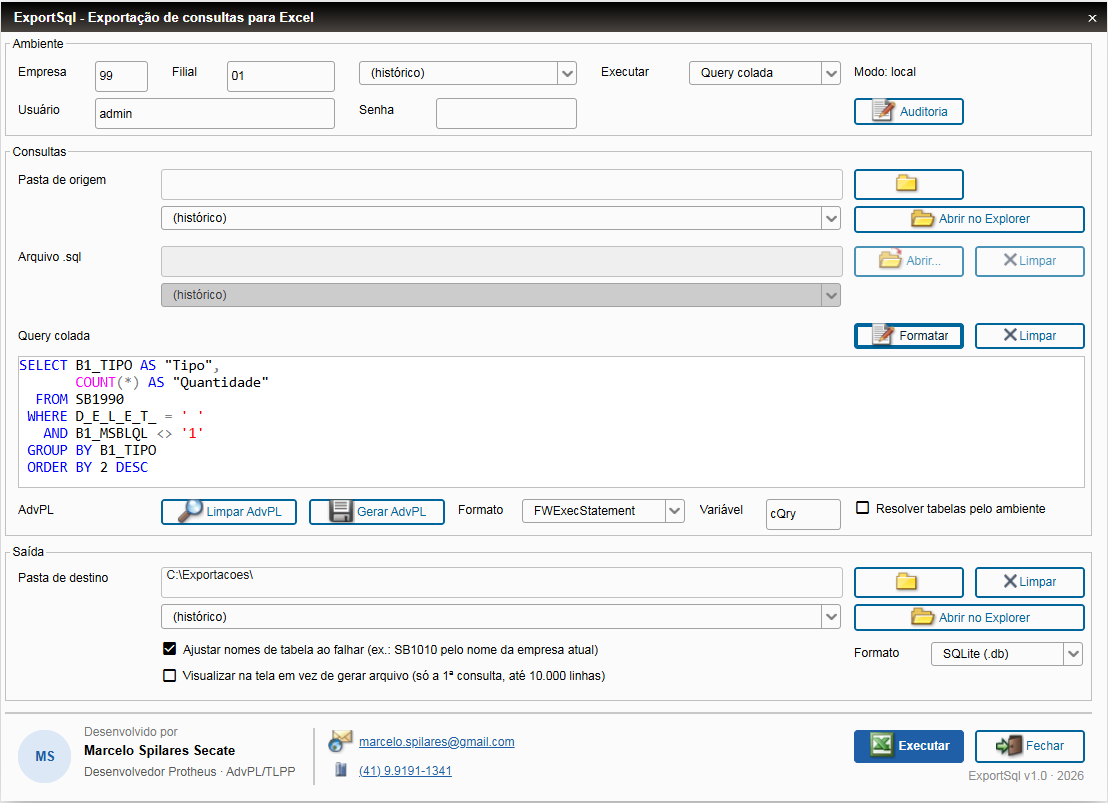
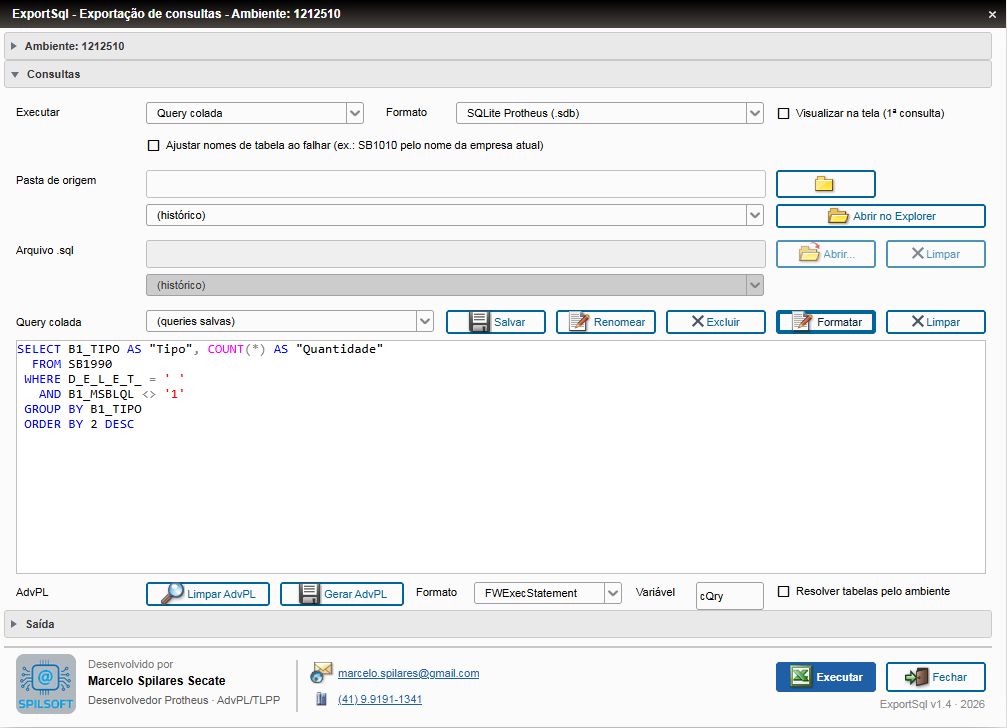
Site: print da tela principal da v1.4

diff --git a/docs/index.html b/docs/index.html
@@ -233,7 +233,7 @@
         <p class="hero-meta">Testado no Protheus 12.1.2510 com SQL Server.</p>
       </div>
       <div class="shot">
-        <img src="img/tela-principal.png" width="1108" height="803" alt="Tela principal do ExportSql com uma consulta colorida no editor">
+        <img src="img/tela-principal.png?v=14" width="1007" height="728" alt="Tela principal do ExportSql com uma consulta colorida no editor">
       </div>
     </div>
   </section>
@@ -301,10 +301,10 @@
       </div>
       <div class="showcase">
         <div class="show-item">
-          <div class="shot"><img src="img/tela-principal.png" width="1108" height="803" loading="lazy" alt="Tela principal do ExportSql"></div>
+          <div class="shot"><img src="img/tela-principal.png?v=14" width="1007" height="728" loading="lazy" alt="Tela principal do ExportSql"></div>
           <div>
             <h3>Uma tela, do ambiente à saída</h3>
-            <p>Tudo organizado em três blocos: ambiente, consultas e saída.</p>
+            <p>Tudo organizado em três seções (Ambiente, Consultas e Saída); uma fica aberta por vez.</p>
             <ul>
               <li>Login com usuário do Protheus e escolha de empresa e filial</li>
               <li>Execute um arquivo .sql ou uma query colada</li>
